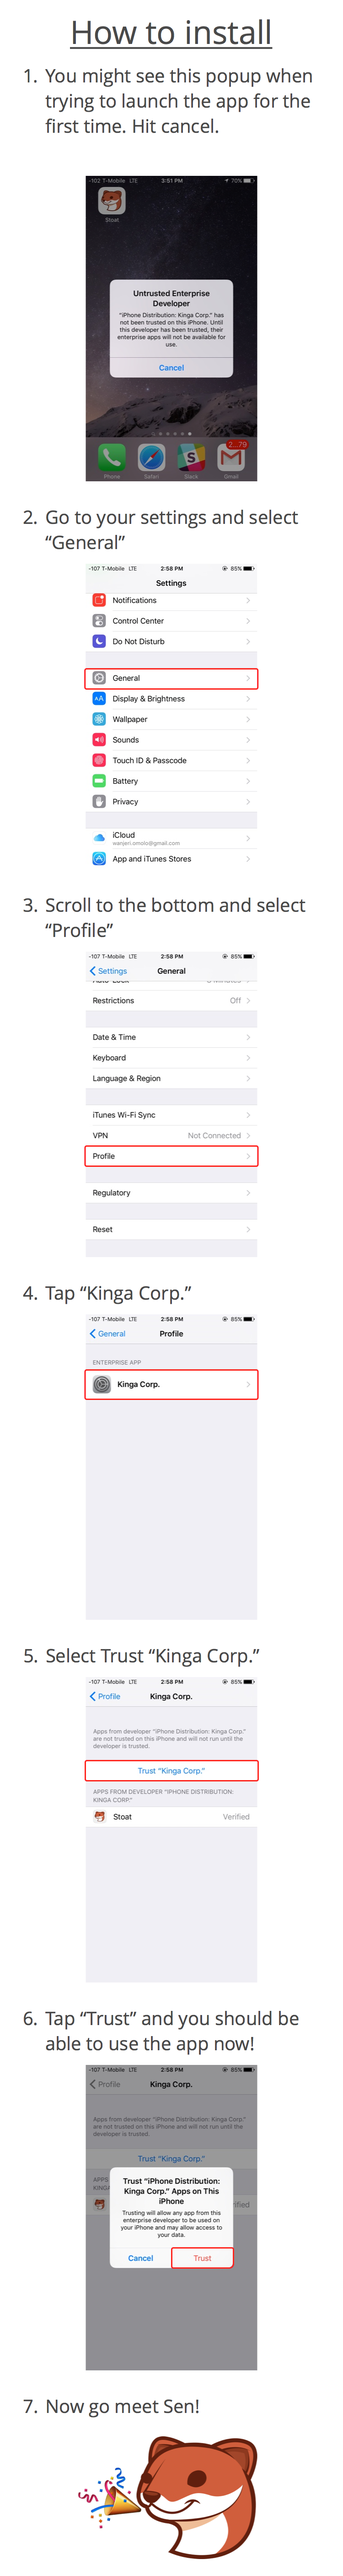
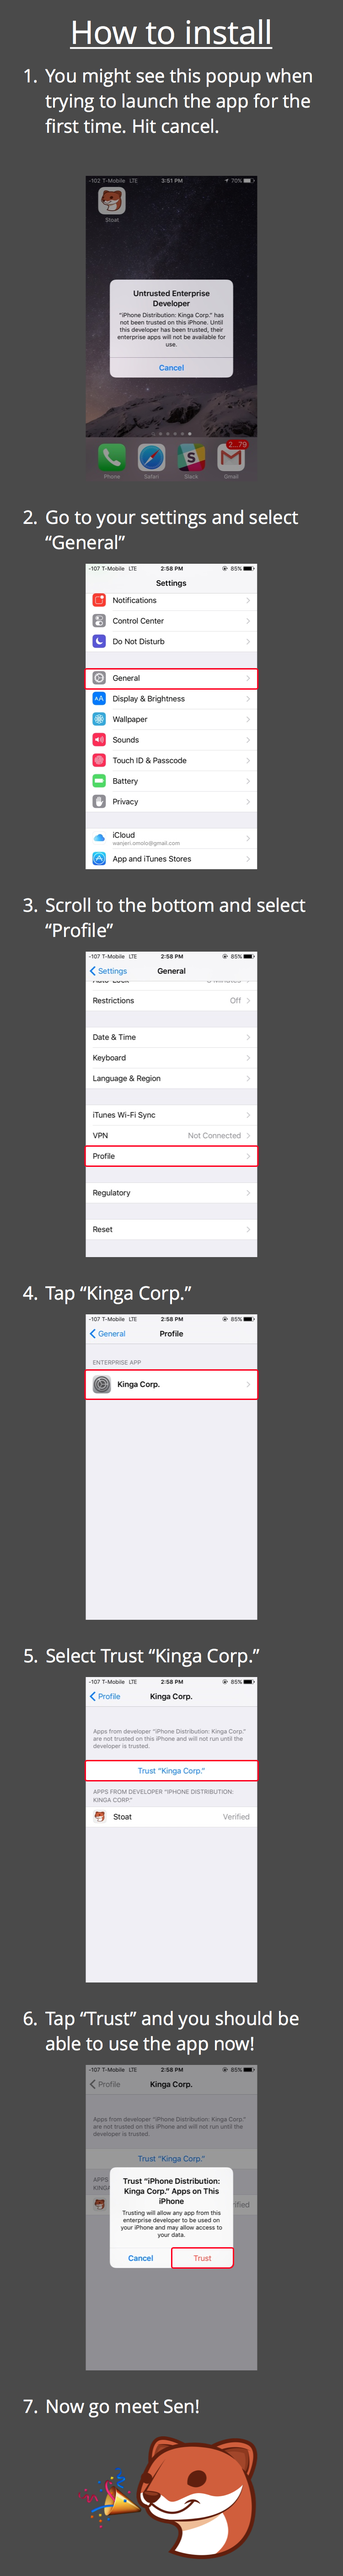
Stylize instructions page

diff --git a/instructions.html b/instructions.html
@@ -1,24 +1,15 @@
 <!DOCTYPE html>
 <html>
-  <div class="install-tutorial">
-      <img src="images/installTutorial.png">
-  </div>
-  <script>
-    <script type="text/javascript">
-    ({pathFromBase: function(path, ext) {
-      var pixelRatio;
-      if (ext == null) {
-        ext = 'png';
-      }
-      pixelRatio = this.pixelRatio();
-      if (pixelRatio > 3) {
-        pixelRatio = 3;
-      }
-      if (pixelRatio >= 2) {
-        path += '@' + pixelRatio + 'x';
-      }
-      return path += '.' + ext;
-    }
-  });
-  </script>
+  <title>iOS Instructions | Stoat</title>
+  <link rel="stylesheet" type="text/css" href="css/normalize.css">
+  <link rel="stylesheet" type="text/css" href="css/webflow.css">
+  <link rel="stylesheet" type="text/css" href="css/stoat.webflow.css">
+  </head>
+  <body style="background-color:#4a4a4a;padding-top:2em;text-align:center;">
+    <p><a class="w-inline-block btn-ico" href="itms-services://?action=download-manifest&amp;url=https://stoat-builds.s3.amazonaws.com/stoatinfo.plist"><span class="btn-img"><img width="23" src="images/ico1.png"></span><span class="btn-text">Download</span></a></p>
+    <div class="install-tutorial">
+        <img src="images/installTutorial.jpg" width='375'>
+    </div>
+    <p style='padding-bottom:2em;'><a class="w-inline-block btn-ico" href="itms-services://?action=download-manifest&amp;url=https://stoat-builds.s3.amazonaws.com/stoatinfo.plist"><span class="btn-img"><img width="23" src="images/ico1.png"></span><span class="btn-text">Download</span></a></p>
+  </body>
 </html>

diff --git a/index.html b/index.html
@@ -185,7 +185,7 @@
   <script type='text/javascript'>
     if (/iPhone/i.test(navigator.userAgent)) {
       var button = document.getElementById('downloadButton');
-      var html = '<a class="w-inline-block btn-ico" href="itms-services://?action=download-manifest&amp;url=https://stoat-builds.s3.amazonaws.com/stoatinfo.plist"><span class="btn-img"><img width="23" src="images/ico1.png"></span><span class="btn-text">Download</span></a>';
+      var html = '<a class="w-inline-block btn-ico" href="/instructions.html"><span class="btn-img"><img width="23" src="images/ico1.png"></span><span class="btn-text">Download</span></a>';
       button.innerHTML = html;
     } else if (/android/i.test(navigator.userAgent)) {
       var button = document.getElementById('downloadButton');
